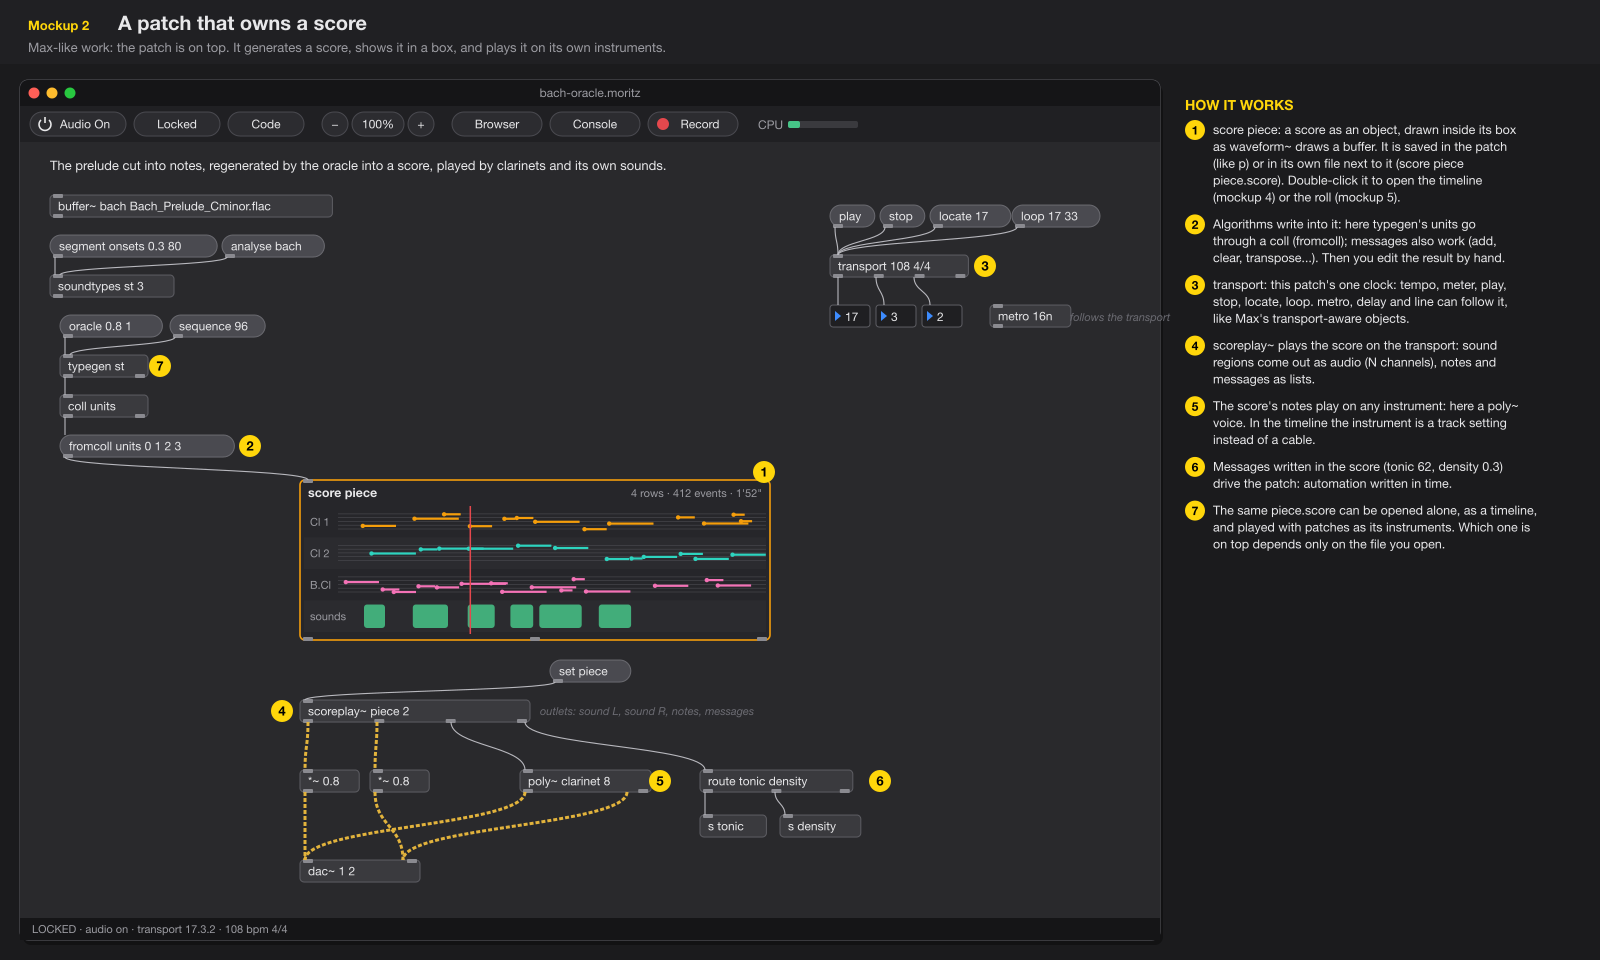
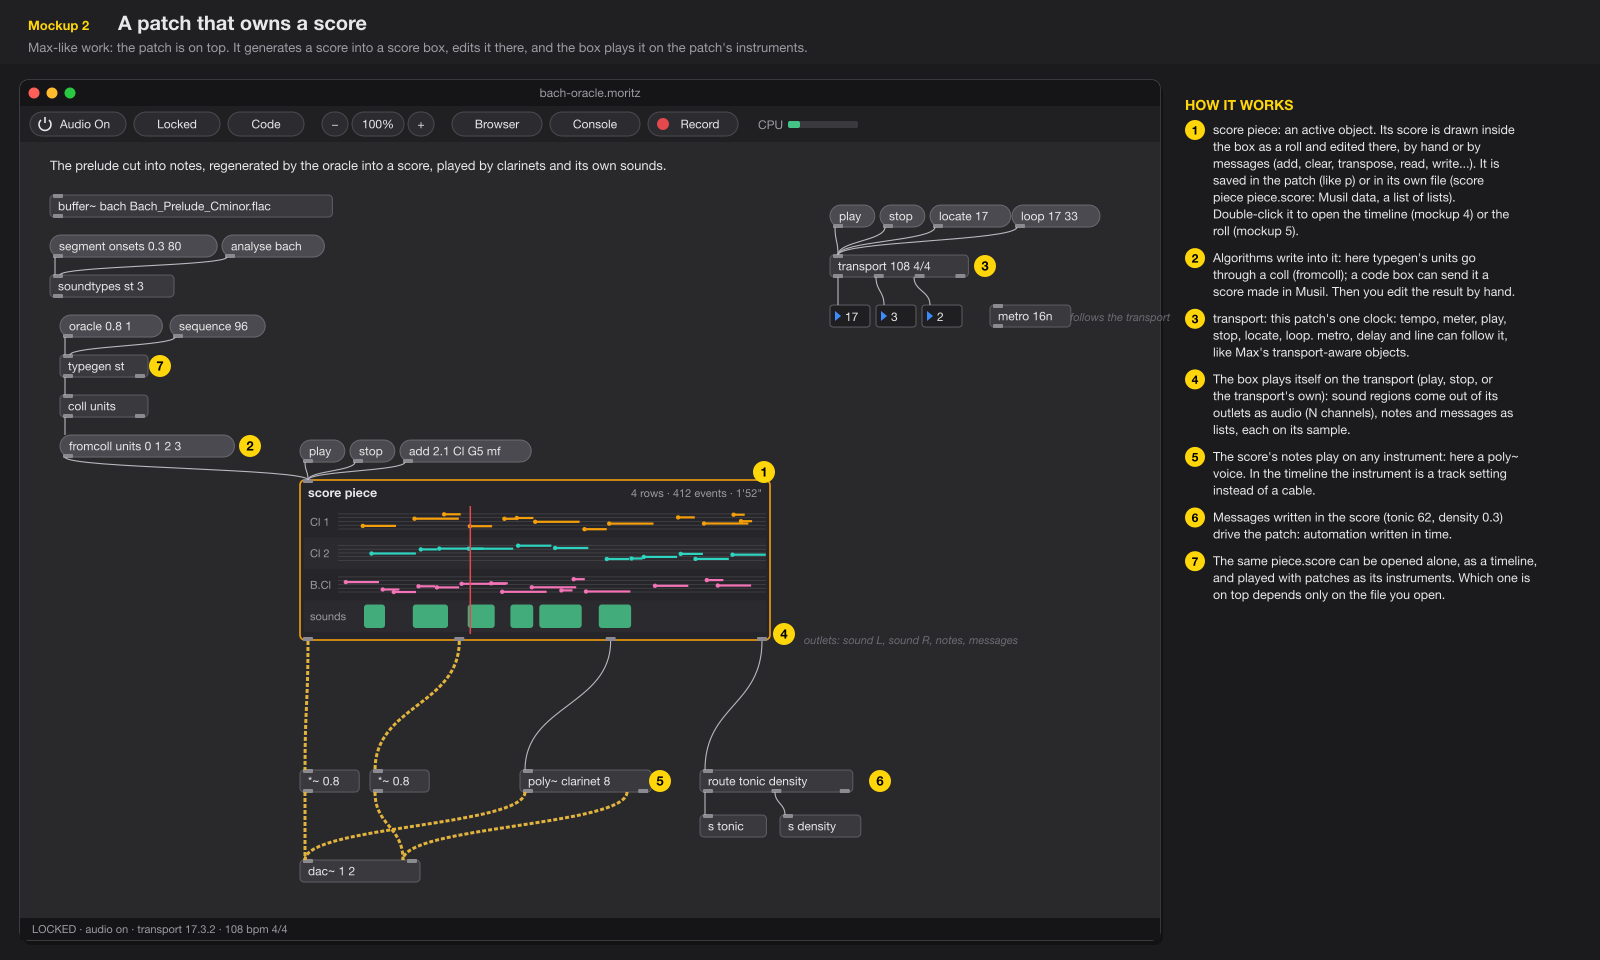
[0.12] Mockups: the score as one C++ structure defined in Musil's C++, a .score file as Musil data, score as an active object that plays itself (mockup 2), Moritz's roll (mockup 5), and the plan for 0.12 to 0.14

diff --git a/mockups/README.md b/mockups/README.md
@@ -2,7 +2,8 @@
 
 These are design sketches, not screenshots. They show how a sound editor, a score
 (with its roll and timeline) and lists of data could live next to the patch in Moritz
-without one replacing the others. Nothing here is implemented yet.
+without one replacing the others. The sound editor is being built for 0.12; the rest is
+not implemented yet. The decisions and the plan are at the end.
 
 ## The idea in one paragraph
 
@@ -30,10 +31,10 @@ one of these four things, so closing a view never loses anything.
 | # | Image | What it shows |
 | - | ----- | ------------- |
 | 1 | [Who contains whom](01-who-contains-whom.png) | The four kinds, how they contain or produce each other, the views of each, and the rules. |
-| 2 | [A patch that owns a score](02-patch-owns-a-score.png) | Max-like work: a patch generates a score (typegen → coll → score), shows it in a box, and plays it with `transport` and `scoreplay~` on its own instruments. |
+| 2 | [A patch that owns a score](02-patch-owns-a-score.png) | Max-like work: a patch generates a score (typegen → coll → score) into a `score` box, an active object: the score is edited inside the box, and the box plays it on the `transport`, sending its events from its outlets to the patch's own instruments. |
 | 3 | [Sound editor](03-sound-editor.png) | The buffer~ window as an editor: waveform and spectrogram, selection and edits, *Process the selection with* any object or patch, markers from soundtypes and onsets, regions sent to a score or a coll. |
 | 4 | [Timeline](04-timeline.png) | DAW-like work: a score drawn as tracks. Clips are sound regions, note sub-scores, patches and sub-score instances. There are automation lanes, per-track patches as instruments and effects (shown live in a drawer), an inspector for placements, and offline rendering in N channels. |
-| 5 | [Roll and generate](05-roll-and-generate.png) | Musil's roll made editable: staves, proportional time, drag and resize. The breadcrumb shows where you are in the recursion. A panel generates (Musil's algorithmic composition and Moritz's sound-based algorithms) and transforms. The score is also shown as text. |
+| 5 | [Roll and generate](05-roll-and-generate.png) | Moritz's roll, editable and played by Moritz: staves, proportional time, drag and resize. The breadcrumb shows where you are in the recursion. A panel generates (Musil's algorithmic composition, run offline, and Moritz's sound-based algorithms) and transforms. The score is also shown as Musil data, which is what a .score file holds. |
 | 6 | [Recursion](06-recursion.png) | Three levels of scores and a patch that owns a score of its own. It shows how placements compose (time, pitch, gain, space), instances versus copies, where a sub-score is stored, and a refused cycle. |
 | 7 | [The life of a piece](07-lifecycle.png) | The loop from collecting sounds to rendering, the view used at each step, and the role of the patch in every step. |
 | 8 | [Layouts](08-layouts.png) | Three ways to arrange the windows (separate windows, one arranger window, a patch with a dock) and the recommendation: write each editor once, as a panel that can sit in any of them. |
@@ -74,3 +75,46 @@ scientific and the others.
 
 The images are generated by a script (kept outside the repository) from Moritz's colours
 and real sounds from `examples/sounds`.
+
+## Decisions (November 2026)
+
+- **Timeline and roll are views of one thing, the score.** A score holds notes (played by an
+  instrument: SOL samples or a patch), sounds (regions of a file or a buffer~), patches (that run
+  while their clip plays, with automated parameters) and other scores, at any depth. A score cannot
+  contain itself. The sound editor is the view of sounds, the leaves.
+- **The score is one C++ structure, defined in Musil's C++** (a header next to Musil's other
+  engines, depending neither on the interpreter nor on Moritz). Musil uses it as a value: the
+  functions of `music.mu` work on it, and Musil alone still plays scores live. Moritz includes the
+  same header and adds editing with undo, sample-accurate playback (a time-ordered plan handed to the
+  audio thread, as for the signal graph) and the views. Orchidea, typegen and the score generators
+  produce it directly.
+- **A .score file is Musil data**: the score written as a list of lists, as in mockup 5. Musil reads
+  it as a value; Moritz opens it without running code (safe for files from elsewhere) and writes it
+  back after every edit. A script that generates a score is ordinary Musil code; what it produces is
+  saved as data. A score converts to and from a coll (one event per row) for its flat parts.
+- **Musil is the offline language in Moritz.** Moritz's audio thread runs only Moritz's C++. Musil
+  generates, transforms and renders; mockups 10 to 14 (the language, the code editor, the REPL, code
+  in patches) stay valid in this sense: patches and scores are C++ structures of Moritz shown to the
+  language as values.
+- **`score` is an active object** (mockup 2): edited inside its box, driven by messages, played on
+  the transport, its events sent from its outlets. Double-click opens it large, as timeline or roll
+  (the same panel).
+- **Each editor is written once, as a panel** (mockup 8), first in its own window.
+
+## Plan
+
+- **0.12: the sound editor** (mockup 3, without spectral painting): overview, waveform and
+  spectrogram, zoom, selection and preview playback, edits with undo, save; then the Process menu
+  (offline objects and patches applied to the selection), markers and regions.
+- **0.13: the score and the timeline** (mockup 4): the score in Musil's C++ and `music.mu` moved
+  onto it (today's scripts giving the same results), the .score file, `transport` and the clock,
+  playback in Moritz, then the timeline: sound clips (from the editor's regions), patch clips,
+  automation lanes, tracks with instruments and effects, offline render. Note clips are shown and
+  moved as blocks; their notes are edited with the roll.
+- **0.14: the roll and the active `score` object** (mockups 5 and 2): editing notes, the inline
+  score box, the Generate and Transform panel (Musil offline), coll (mockup 9).
+- **Later:** notation, MusicXML import, spectral painting, the patch dock (layout C), and the parts
+  of mockups 10 to 14 not done by then.
+
+Each version is worked on in its own branch, on macOS, validated by hand; CI runs once, when the
+version is ready, before it is merged into main and tagged.
